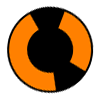
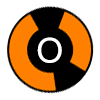
PS4 Promotions!
PS4 Strats, Jag, and Riffmasters have been promoted to "Great" rating thanks to Clipper by Rosalie. Also, all instrument buttons have letters printed on them to help out the color blind.

Changed region(s): [[0.36, 0.36, 0.63, 0.63]]

diff --git a/pages/espanol/instrumentos/guitarras/ps4-rb.md b/pages/espanol/instrumentos/guitarras/ps4-rb.md
@@ -14,9 +14,7 @@ toc: false
 
 ## NOTAS:
 
-* El mapeo no esta confirmado. Si quieres ayudar con este, mándanos un mensaje.
-* **El ladeo (tilt), la palanca de whammy y el switch de efectos no funcionan** para nada. Los botones de solo no funcionan tampoco.
-	* Si eres dueño de una Riffmaster, recomendamos comprar algo como [[Adaptador de guitarra V3 Wii/USB por RetroCultMods]](https://www.etsy.com/listing/1536358024/adaptador-de-guitarra-v3-wii-con) o una [[Adafruit Feather RP2040 con puerto de USB tipo a de entrada]](https://rb3pc.milohax.org/ctrls_mod_riffada_es) para tener ladeo (tilt), la palanca de whammy y el switch de efectos y para convertirla a una guitarra de multi-plataforma.
+* Requiere que descargues y instales [[**clipper**]](https://github.com/Rosalie241/clipper/){:target="_blank"} con ViGEmBus.
 * La latencia de las Jaguars y las Stratocasters es muy variable. Puede ser difícil calibrar por esto.
 * La PDP Riffmaster requiere su receptor propio.  
 	![Receptor de PDP Riffmaster](https://rb3pc.milohax.org/images/btns/ctrls/xbox/riffrec.png "Receptor de PDP Riffmaster")
@@ -24,9 +22,9 @@ toc: false
 
 ## Información de Control:
 
-| Handlers | Devices |	
+| Handlers | Devices |
 |:------------------:|:---------------------:|
-| MMJoystick | Joystick |
+| XInput | XInput Pad |
 
 | Device Class | Device Subtype |
 |:------------------:|:---------------------:|
@@ -34,24 +32,112 @@ toc: false
 
 ## Mapeo:
 
-| **RPCS3**          | **Control** |
-|:------------------:|:---------------------:|
-| Cross (Cruz) | ![Traste Verde](https://rb3pc.milohax.org/images/btns/gtrs/gf.png "Traste Verde") |
-| Circle (Circulo) | ![Traste Rojo](https://rb3pc.milohax.org/images/btns/gtrs/rf.png "Traste Rojo") |
-| Square (Cuadro) | ![Traste Azul](https://rb3pc.milohax.org/images/btns/gtrs/bf.png "Traste Azul") |
-| Triangle (Triangulo) | ![Traste Amarillo](https://rb3pc.milohax.org/images/btns/gtrs/yf.png "Traste Amarillo") |
-| L1 | ![Traste Naranja](https://rb3pc.milohax.org/images/btns/gtrs/of.png "Traste Naranja") |
-| D-Pad (Cruceta): Arriba | ![Rasgueo para arriba](https://rb3pc.milohax.org/images/btns/gtrs/sbu.png "Rasgueo para arriba") |
-| D-Pad (Cruceta): Abajo | ![Rasgueo para abajo](https://rb3pc.milohax.org/images/btns/gtrs/sbd.png "Rasgueo para abajo") |
-| D-Pad (Cruceta): Izquierda | ![D-Pad (Cruceta): Izquierda](https://rb3pc.milohax.org/images/btns/gtrs/dpl.png "D-Pad (Cruceta): Izquierda") |
-| D-Pad (Cruceta): Derecha | ![D-Pad (Cruceta): Derecha](https://rb3pc.milohax.org/images/btns/gtrs/dpr.png "D-Pad (Cruceta): Derecha") |
-| L2 | ![Botón de solos](https://rb3pc.milohax.org/images/btns/gtrs/solo.png "Botón de solos") |
-| Start | ![Options](https://rb3pc.milohax.org/images/btns/ctrls/ps4/opt.png "Options") |
-| Select | ![Share](https://rb3pc.milohax.org/images/btns/ctrls/ps4/shr.png "Share") |
-| Botón PS | ![Home](https://rb3pc.milohax.org/images/btns/ctrls/ps3/home.png "Home") |
+Guitarras viejas pueden tener problemas con las palancas de whammy que puede crear dificultades cuando las mapeas. **Si pasa, haz click en "Filter Noise" (filtrar ruido) para mapear correctamente.**  
+
+Por defecto, XInput tiene mayoría de las cosas configuradas correctamente. Solo necesitas ajustar esto:
+
+| **RPCS3** | **XInput** | **Guitarra** |
+|:--------:|:-----------:|:-----------:|
+| Botón R1 | ![Palanca izquierda](https://rb3pc.milohax.org/images/btns/ctrls/360/rs.png "Palanca izquierda") | ![Ladeo](https://rb3pc.milohax.org/images/btns/gtrs/ts.png "Ladeo") | 
+| L2 | ![Palanca derecha presionada](https://rb3pc.milohax.org/images/btns/ctrls/360/rsc.png "Palanca derecha presionada") | ![Botón de solos](https://rb3pc.milohax.org/images/btns/gtrs/solo.png "Botón de solos") | 
+
+<div class="panel-group" id="accordion">
+                    <div class="panel panel-default">
+                        <div class="panel-heading">
+                            <h4 class="panel-title">
+                                <a class="noCrossRef accordion-toggle" data-toggle="collapse" data-parent="#accordion" href="#mapeo-avanzado">Mapeo avanzado</a>
+                            </h4>
+                        </div>
+                        <div id="mapeo-avanzado" class="panel-collapse collapse noCrossRef">
+                            <div class="panel-body">
+
+<table>
+<thead>
+<tr>
+<th align="center"><strong>RPCS3</strong></th>
+<th align="center"><strong>Guitarra</strong></th>
+</tr>
+</thead>
+<tbody>
+<tr>
+<td align="center">Cross (Cruz)</td>
+<td align="center"><img src="https://rb3pc.milohax.org/images/btns/gtrs/gf.png" alt="Traste Verde" title="Traste Verde"></td>
+</tr>
+<tr>
+<td align="center">Circle (Circulo)</td>
+<td align="center"><img src="https://rb3pc.milohax.org/images/btns/gtrs/rf.png" alt="Traste Rojo" title="Traste Rojo"></td>
+</tr>
+<tr>
+<td align="center">Square (Cuadro)</td>
+<td align="center"><img src="https://rb3pc.milohax.org/images/btns/gtrs/yf.png" alt="Traste Amarillo" title="Traste Amarillo"></td>
+</tr>
+<tr>
+<td align="center">Triangle (Triangulo)</td>
+<td align="center"><img src="https://rb3pc.milohax.org/images/btns/gtrs/bf.png" alt="Traste Azul" title="Traste Azul"></td>
+</tr>
+<tr>
+<td align="center">L1</td>
+<td align="center"><img src="https://rb3pc.milohax.org/images/btns/gtrs/of.png" alt="Traste Naranja" title="Traste Naranja"></td>
+</tr>
+<tr>
+<td align="center">D-Pad (Cruceta): Arriba</td>
+<td align="center"><img src="https://rb3pc.milohax.org/images/btns/gtrs/sbu.png" alt="Rasgueo para arriba" title="Rasgueo para arriba"></td>
+</tr>
+<tr>
+<td align="center">D-Pad (Cruceta): Abajo</td>
+<td align="center"><img src="https://rb3pc.milohax.org/images/btns/gtrs/sbd.png" alt="Rasgueo para abajo" title="Rasgueo para abajo"></td>
+</tr>
+<tr>
+<td align="center">D-Pad (Cruceta): Izquierda</td>
+<td align="center"><img src="https://rb3pc.milohax.org/images/btns/gtrs/dpl.png" alt="D-Pad (Cruceta): Izquierda" title="D-Pad (Cruceta): Izquierda"></td>
+</tr>
+<tr>
+<td align="center">D-Pad (Cruceta): Derecha</td>
+<td align="center"><img src="https://rb3pc.milohax.org/images/btns/gtrs/dpr.png" alt="D-Pad (Cruceta): Derecha" title="D-Pad (Cruceta): Derecha"></td>
+</tr>
+<tr>
+<td align="center">Palanca Derecha: <br> Izq./Der.</td>
+<td align="center"><img src="https://rb3pc.milohax.org/images/btns/gtrs/wb.png" alt="Palanca de whammy" title="Palanca de whammy"></td>
+</tr>
+<tr>
+<td align="center">Palanca Derecha: <br> Arriba <em>e</em> abajo</td>
+<td align="center"><img src="https://rb3pc.milohax.org/images/btns/gtrs/fx.png" alt="Switch de efectos" title="Switch de efectos"></td>
+</tr>
+<tr>
+<td align="center">L2</td>
+<td align="center"><img src="https://rb3pc.milohax.org/images/btns/gtrs/solo.png" alt="Botón de solos" title="Botón de solos"></td>
+</tr>
+<tr>
+<td align="center">Botón R1</td>
+<td align="center"><img src="https://rb3pc.milohax.org/images/btns/gtrs/ts.png" alt="Ladeo" title="Ladeo"></td>
+</tr>
+<tr>
+<td align="center">Start</td>
+<td align="center"><img src="https://rb3pc.milohax.org/images/btns/ctrls/360/start.png" alt="Start" title="Start"></td>
+</tr>
+<tr>
+<td align="center">Select</td>
+<td align="center"><img src="https://rb3pc.milohax.org/images/btns/ctrls/360/back.png" alt="Back" title="Back"></td>
+</tr>
+<tr>
+<td align="center">Botón PS</td>
+<td align="center"><img src="https://rb3pc.milohax.org/images/btns/ctrls/360/home.png" alt="Home" title="Home"></td>
+</tr>
+</tbody>
+</table>
+                            </div>
+                        </div>
+                    </div>
+                    <!-- /.panel -->
+</div>
+<!-- /.panel-group -->
 
 ## Perfil
 
-N/A
+[[Bajar Perfil]](https://github.com/hmxmilohax/rb3-pc/raw/refs/heads/main/downloads/instrument-repo/Xbox%20Rock%20Band%20Guitar.7z){:target="_blank"}
+
+<div align="center"> <img src="https://rb3pc.milohax.org/images/instruments/maps/gtrxboxrbmapping.png" alt="Mapeo" title="Mapeo"></div>
 
 [[Regresar a la lista de instrumentos]](https://rb3pc.milohax.org/ctrls_es#lista-de-instrumentos)
+
+Mapeado por [[gonakil1ya]](https://linktr.ee/Gonakil1ya){:target="_blank"} y [[LysiX]](https://www.youtube.com/channel/UC1RaK6pSok879gogdeBlszw){:target="_blank"}

diff --git a/pages/english/instruments/guitars/ps4-rb.md b/pages/english/instruments/guitars/ps4-rb.md
@@ -4,7 +4,7 @@ sidebar: controllers_sidebar
 permalink: ctrls_rb4gtr_ps4
 folder: instruments
 tags: [ps4, guitars, english]
-summary: "How to setup PS4 Rock Band guitars on RPCS3."
+summary: "How to setup PS4 Rock Band 4/Fortnite Festival guitars on RPCS3."
 toc: false
 ---
 
@@ -14,9 +14,7 @@ toc: false
 
 ## NOTES
 
-* The bindings have not been verified. If you want to help, please send us a message!
-* **Tilt, Whammy, and pickup switch WILL NOT work at all!** Solo buttons may or may not work.
-	* If you own a Riffmaster, it's suggested to purchase a solution like [[RetroCultMods' V3 Wii/USB Guitar Adapter]](https://www.etsy.com/listing/1536358024/v3-wii-guitar-adapter-with-tilt-for) or the [[Adafruit Feather RP2040 with USB Type A Host]](https://rb3pc.milohax.org/ctrls_mod_riffada) to have whammy, tilt, and convert it to a multiplatform guitar.
+* Requires installing and running [[**clipper**]](https://github.com/Rosalie241/clipper/){:target="_blank"} along with its dependencies.
 * Latency on Jaguars and Stratocasters may be an issue depending on your Bluetooth receiver. This may make it difficult to calibrate.
 * PDP Riffmaster guitars require their respective dongle.  
 	![PDP Riffmaster Wireless Receiver](https://rb3pc.milohax.org/images/btns/ctrls/xbox/riffrec.png "PDP Riffmaster Wireless Receiver")
@@ -24,34 +22,122 @@ toc: false
 
 ## Pad Information
 
-| Handlers | Devices |	
+| Handlers | Devices |
 |:------------------:|:---------------------:|
-| MMJoystick | Joystick |
+| XInput | XInput Pad |
 
 | Device Class | Device Subtype |
 |:------------------:|:---------------------:|
 | Guitar | Rock Band |
 
-## Mappings
+## Mapping
 
-| **RPCS3**          | **Controller** |
-|:------------------:|:---------------------:|
-| Cross | ![Green Fret](https://rb3pc.milohax.org/images/btns/gtrs/gf.png "Green Fret") |
-| Circle | ![Red Fret](https://rb3pc.milohax.org/images/btns/gtrs/rf.png "Red Fret") |
-| Square | ![Blue Fret](https://rb3pc.milohax.org/images/btns/gtrs/bf.png "Blue Fret") |
-| Triangle | ![Yellow Fret](https://rb3pc.milohax.org/images/btns/gtrs/yf.png "Yellow Fret") |
-| L1 | ![Orange Fret](https://rb3pc.milohax.org/images/btns/gtrs/of.png "Orange Fret") |
-| D-Pad: Up | ![Strumbar Up](https://rb3pc.milohax.org/images/btns/gtrs/sbu.png "Strumbar Up") |
-| D-Pad: Down | ![Strumbar Down](https://rb3pc.milohax.org/images/btns/gtrs/sbd.png "Strumbar Down") |
-| D-Pad: Left | ![D-Pad: Left](https://rb3pc.milohax.org/images/btns/gtrs/dpl.png "D-Pad: Left") |
-| D-Pad: Right | ![D-Pad: Right](https://rb3pc.milohax.org/images/btns/gtrs/dpr.png "D-Pad: Right") |
-| L2 | ![Solo Buttons](https://rb3pc.milohax.org/images/btns/gtrs/solo.png "Solo Buttons") |
-| Start | ![Options](https://rb3pc.milohax.org/images/btns/ctrls/ps4/opt.png "Options") |
-| Select | ![Share](https://rb3pc.milohax.org/images/btns/ctrls/ps4/shr.png "Share") |
-| PS Button | ![Home](https://rb3pc.milohax.org/images/btns/ctrls/ps3/home.png "Home") |
+Older guitars may develop problematic whammy bars which cause issues while mapping. **You may have to Filter Noise to map correctly.**  
+
+By default, XInput has most things bound correctly. You only need to remap the following:
+
+| **RPCS3** | **XInput** | **Guitar** |
+|:--------:|:-----------:|:-----------:|
+| R1 | ![Right Stick](https://rb3pc.milohax.org/images/btns/ctrls/360/rs.png "Right Stick") | ![Tilt](https://rb3pc.milohax.org/images/btns/gtrs/ts.png "Tilt") | 
+| L2 | ![Right Stick Click](https://rb3pc.milohax.org/images/btns/ctrls/360/rsc.png "Right Stick Click") | ![Solo Buttons](https://rb3pc.milohax.org/images/btns/gtrs/solo.png "Solo Buttons") | 
+
+<div class="panel-group" id="accordion">
+                    <div class="panel panel-default">
+                        <div class="panel-heading">
+                            <h4 class="panel-title">
+                                <a class="noCrossRef accordion-toggle" data-toggle="collapse" data-parent="#accordion" href="#advanced-mapping">Advanced Mapping</a>
+                            </h4>
+                        </div>
+                        <div id="advanced-mapping" class="panel-collapse collapse noCrossRef">
+                            <div class="panel-body">
+
+<table>
+<thead>
+<tr>
+<th align="center"><strong>RPCS3</strong></th>
+<th align="center"><strong>Guitar</strong></th>
+</tr>
+</thead>
+<tbody>
+<tr>
+<td align="center">Cross</td>
+<td align="center"><img src="https://rb3pc.milohax.org/images/btns/gtrs/gf.png" alt="Green Fret" title="Green Fret"></td>
+</tr>
+<tr>
+<td align="center">Circle</td>
+<td align="center"><img src="https://rb3pc.milohax.org/images/btns/gtrs/rf.png" alt="Red Fret" title="Red Fret"></td>
+</tr>
+<tr>
+<td align="center">Square</td>
+<td align="center"><img src="https://rb3pc.milohax.org/images/btns/gtrs/yf.png" alt="Yellow Fret" title="Yellow Fret"></td>
+</tr>
+<tr>
+<td align="center">Triangle</td>
+<td align="center"><img src="https://rb3pc.milohax.org/images/btns/gtrs/bf.png" alt="Blue Fret" title="Blue Fret"></td>
+</tr>
+<tr>
+<td align="center">L1</td>
+<td align="center"><img src="https://rb3pc.milohax.org/images/btns/gtrs/of.png" alt="Orange Fret" title="Orange Fret"></td>
+</tr>
+<tr>
+<td align="center">D-Pad: Up</td>
+<td align="center"><img src="https://rb3pc.milohax.org/images/btns/gtrs/sbu.png" alt="Strumbar Up" title="Strumbar Up"></td>
+</tr>
+<tr>
+<td align="center">D-Pad: Down</td>
+<td align="center"><img src="https://rb3pc.milohax.org/images/btns/gtrs/sbd.png" alt="Strumbar Down" title="Strumbar Down"></td>
+</tr>
+<tr>
+<td align="center">D-Pad: Left</td>
+<td align="center"><img src="https://rb3pc.milohax.org/images/btns/gtrs/dpl.png" alt="D-Pad: Left" title="D-Pad: Left"></td>
+</tr>
+<tr>
+<td align="center">D-Pad: Right</td>
+<td align="center"><img src="https://rb3pc.milohax.org/images/btns/gtrs/dpr.png" alt="D-Pad: Right" title="D-Pad: Right"></td>
+</tr>
+<tr>
+<td align="center">Right Stick: <br> Left/Right</td>
+<td align="center"><img src="https://rb3pc.milohax.org/images/btns/gtrs/wb.png" alt="Whammy Bar" title="Whammy Bar"></td>
+</tr>
+<tr>
+<td align="center">Right Stick: <br> Up <em>and</em> Down</td>
+<td align="center"><img src="https://rb3pc.milohax.org/images/btns/gtrs/fx.png" alt="Effects Switch" title="Effects Switch"></td>
+</tr>
+<tr>
+<td align="center">L2</td>
+<td align="center"><img src="https://rb3pc.milohax.org/images/btns/gtrs/solo.png" alt="Solo Buttons" title="Solo Buttons"></td>
+</tr>
+<tr>
+<td align="center">R1</td>
+<td align="center"><img src="https://rb3pc.milohax.org/images/btns/gtrs/ts.png" alt="Tilt" title="Tilt"></td>
+</tr>
+<tr>
+<td align="center">Start</td>
+<td align="center"><img src="https://rb3pc.milohax.org/images/btns/ctrls/360/start.png" alt="Plus" title="Start"></td>
+</tr>
+<tr>
+<td align="center">Select</td>
+<td align="center"><img src="https://rb3pc.milohax.org/images/btns/ctrls/360/back.png" alt="Minus" title="Back"></td>
+</tr>
+<tr>
+<td align="center">PS Button</td>
+<td align="center"><img src="https://rb3pc.milohax.org/images/btns/ctrls/360/home.png" alt="Home" title="Home"></td>
+</tr>
+</tbody>
+</table>
+                            </div>
+                        </div>
+                    </div>
+                    <!-- /.panel -->
+</div>
+<!-- /.panel-group -->
 
 ## Profile
 
-N/A
+[[Download Profile]](https://github.com/hmxmilohax/rb3-pc/raw/refs/heads/main/downloads/instrument-repo/PS4%20Rock%20Band%20Guitar.7z){:target="_blank"}
+
+<div align="center"> <img src="https://rb3pc.milohax.org/images/instruments/maps/gtrxboxrbmapping.png" alt="Mapping" title="Mapping"></div>
 
 [[Back to Controllers]](https://rb3pc.milohax.org/ctrls#instrument-list)
+
+Mapped by [[gonakil1ya]](https://linktr.ee/Gonakil1ya){:target="_blank"} and [[LysiX]](https://www.youtube.com/channel/UC1RaK6pSok879gogdeBlszw){:target="_blank"}

diff --git a/pages/espanol/instrumentos/principal.md b/pages/espanol/instrumentos/principal.md
@@ -91,6 +91,9 @@ Cuando termines de configurar algo, **asegúrate hacer click en "Save"** (Guarda
 |[![Guitarra de GH:World Tour](https://rb3pc.milohax.org/images/instruments/list/gtrwt.png)](https://rb3pc.milohax.org/ctrls_ghgtr_360_es "Genericaster de Guitar Hero") | Guitarra de GH:World Tour | ![Xbox 360](https://rb3pc.milohax.org/images/instruments/plat/360.png) | ![Símbolo de compatibilidad adecuada](https://rb3pc.milohax.org/images/instruments/compat/okay.png) |[[VER MAS]](https://rb3pc.milohax.org/ctrls_ghgtr_360_es) |
 |[![Guitarra de GH5](https://rb3pc.milohax.org/images/instruments/list/gtrgh5.png)](https://rb3pc.milohax.org/ctrls_ghgtr_360_es "Genericaster de Guitar Hero") | Guitarra de GH5 | ![Xbox 360](https://rb3pc.milohax.org/images/instruments/plat/360.png) | ![Símbolo de compatibilidad adecuada](https://rb3pc.milohax.org/images/instruments/compat/okay.png) |[[VER MAS]](https://rb3pc.milohax.org/ctrls_ghgtr_360_es) |
 |[![Guitarra de GH: Warriors of Rock](https://rb3pc.milohax.org/images/instruments/list/gtrwor.png)](https://rb3pc.milohax.org/ctrls_ghgtr_360_es "Genericaster de Guitar Hero") | Guitarra de GH: Warriors of Rock | ![Xbox 360](https://rb3pc.milohax.org/images/instruments/plat/360.png) | ![Símbolo de compatibilidad adecuada](https://rb3pc.milohax.org/images/instruments/compat/okay.png) |[[VER MAS]](https://rb3pc.milohax.org/ctrls_ghgtr_360_es) |
+|[![PDP Riffmaster](https://rb3pc.milohax.org/images/instruments/list/gtrriff.png)](https://rb3pc.milohax.org/ctrls_rb4gtr_ps4_es "PDP Riffmaster") | PDP Riffmaster | ![PlayStation 4](https://rb3pc.milohax.org/images/instruments/plat/ps4.png) | ![Símbolo de compatibilidad adecuada](https://rb3pc.milohax.org/images/instruments/compat/okay.png) | [[VER MAS]](https://rb3pc.milohax.org/ctrls_rb4gtr_ps4_es) |
+|[![Stratocaster de Rock Band 4](https://rb3pc.milohax.org/images/instruments/list/gtrrb4.png)](https://rb3pc.milohax.org/ctrls_rb4gtr_ps4_es "Stratocaster de Rock Band") | Stratocaster de Rock Band 4 | ![PlayStation 4](https://rb3pc.milohax.org/images/instruments/plat/ps4.png) | ![Símbolo de compatibilidad adecuada](https://rb3pc.milohax.org/images/instruments/compat/okay.png) | [[VER MAS]](https://rb3pc.milohax.org/ctrls_rb4gtr_ps4_es) |
+|[![Jaguar de Rock Band 4](https://rb3pc.milohax.org/images/instruments/list/gtrjag.png)](https://rb3pc.milohax.org/ctrls_rb4gtr_ps4_es "Jaguar de Rock Band") | Jaguar de Rock Band 4 | ![PlayStation 4](https://rb3pc.milohax.org/images/instruments/plat/ps4.png) | ![Símbolo de compatibilidad adecuada](https://rb3pc.milohax.org/images/instruments/compat/okay.png) | [[VER MAS]](https://rb3pc.milohax.org/ctrls_rb4gtr_ps4_es) |
 |[![Xplorer de Guitar Hero](https://rb3pc.milohax.org/images/instruments/list/gtrxpl.png)](https://rb3pc.milohax.org/ctrls_ghxpgtr_360 "Xplorer de Guitar Hero") | Xplorer de Guitar Hero | ![Xbox 360](https://rb3pc.milohax.org/images/instruments/plat/360.png) | ![Símbolo de compatibilidad adecuada](https://rb3pc.milohax.org/images/instruments/compat/okay.png) |[[VER MAS]](https://rb3pc.milohax.org/ctrls_ghxpgtr_360) |
 |[![Les Paul de Guitar Hero](https://rb3pc.milohax.org/images/instruments/list/gtrlpwii.png)](https://rb3pc.milohax.org/ctrls_ghlpgtr_wii "Les Paul de Guitar Hero") | Les Paul de Guitar Hero (Raphnet) | ![Nintendo Wii](https://rb3pc.milohax.org/images/instruments/plat/wii.png) | ![Símbolo de compatibilidad adecuada](https://rb3pc.milohax.org/images/instruments/compat/okay.png) |[[VER MAS]](https://rb3pc.milohax.org/ctrls_ghlpgtr_wii) |
 |[![Les Paul de Guitar Hero](https://rb3pc.milohax.org/images/instruments/list/gtrlpwii.png)](https://rb3pc.milohax.org/ctrls_ghwtr_wii_es "Les Paul de Guitar Hero") | Les Paul de Guitar Hero (WiitarThing) | ![Nintendo Wii](https://rb3pc.milohax.org/images/instruments/plat/wii.png) | ![Símbolo de compatibilidad adecuada](https://rb3pc.milohax.org/images/instruments/compat/okay.png) |[[VER MAS]](https://rb3pc.milohax.org/ctrls_ghwtr_wii_es) |
@@ -102,9 +105,6 @@ Cuando termines de configurar algo, **asegúrate hacer click en "Save"** (Guarda
 |[![Guitarra de GH:World Tour](https://rb3pc.milohax.org/images/instruments/list/gtrwt.png)](https://rb3pc.milohax.org/ctrls_ghwtgtr_ps3_es "Genericaster de Guitar Hero") | Guitarra de GH:World Tour | ![PlayStation 3](https://rb3pc.milohax.org/images/instruments/plat/ps3.png) | ![Compatibilidad terrible](https://rb3pc.milohax.org/images/instruments/compat/bad.png) |[[VER MAS]](https://rb3pc.milohax.org/ctrls_ghwtgtr_ps3_es) |
 |[![Guitarra de GH5](https://rb3pc.milohax.org/images/instruments/list/gtrgh5.png)](https://rb3pc.milohax.org/ctrls_ghwtgtr_ps3_es "Genericaster de Guitar Hero") | Guitarra de GH5 | ![PlayStation 3](https://rb3pc.milohax.org/images/instruments/plat/ps3.png) | ![Compatibilidad terrible](https://rb3pc.milohax.org/images/instruments/compat/bad.png) |[[VER MAS]](https://rb3pc.milohax.org/ctrls_ghwtgtr_ps3_es) |
 |[![Guitarra de GH: Warriors of Rock](https://rb3pc.milohax.org/images/instruments/list/gtrwor.png)](https://rb3pc.milohax.org/ctrls_ghwtgtr_ps3_es "Genericaster de Guitar Hero") | Guitarra de GH: Warriors of Rock | ![PlayStation 3](https://rb3pc.milohax.org/images/instruments/plat/ps3.png) | ![Compatibilidad terrible](https://rb3pc.milohax.org/images/instruments/compat/bad.png) |[[VER MAS]](https://rb3pc.milohax.org/ctrls_ghwtgtr_ps3_es) |
-|[![PDP Riffmaster](https://rb3pc.milohax.org/images/instruments/list/gtrriff.png)](https://rb3pc.milohax.org/ctrls_rb4gtr_ps4_es "PDP Riffmaster") | PDP Riffmaster | ![PlayStation 4](https://rb3pc.milohax.org/images/instruments/plat/ps4.png) | ![Compatibilidad terrible](https://rb3pc.milohax.org/images/instruments/compat/bad.png) |[[VER MAS]](https://rb3pc.milohax.org/ctrls_rb4gtr_ps4_es) |
-|[![Stratocaster de Rock Band 4](https://rb3pc.milohax.org/images/instruments/list/gtrrb4.png)](https://rb3pc.milohax.org/ctrls_rb4gtr_ps4_es "Stratocaster de Rock Band") | Stratocaster de Rock Band 4 | ![PlayStation 4](https://rb3pc.milohax.org/images/instruments/plat/ps4.png) | ![Compatibilidad terrible](https://rb3pc.milohax.org/images/instruments/compat/bad.png) |[[VER MAS]](https://rb3pc.milohax.org/ctrls_rb4gtr_ps4_es) |
-|[![Jaguar de Rock Band 4](https://rb3pc.milohax.org/images/instruments/list/gtrjag.png)](https://rb3pc.milohax.org/ctrls_rb4gtr_ps4_es "Jaguar de Rock Band") | Jaguar de Rock Band 4 | ![PlayStation 4](https://rb3pc.milohax.org/images/instruments/plat/ps4.png) | ![Compatibilidad terrible](https://rb3pc.milohax.org/images/instruments/compat/bad.png) |[[VER MAS]](https://rb3pc.milohax.org/ctrls_rb4gtr_ps4_es) |
 |[![Guitarra de GH:World Tour](https://rb3pc.milohax.org/images/instruments/list/gtrwt.png)](https://rb3pc.milohax.org/ctrls_ghwtgtr_pc_es "Genericaster de Guitar Hero") | Guitarra de GH:World Tour | ![PC](https://rb3pc.milohax.org/images/instruments/plat/pc.png) | ![Compatibilidad terrible](https://rb3pc.milohax.org/images/instruments/compat/bad.png) |[[VER MAS]](https://rb3pc.milohax.org/ctrls_ghwtgtr_pc_es) |
 |[![Guitarra desconocida](https://rb3pc.milohax.org/images/instruments/list/gtrmyst.png)](https://rb3pc.milohax.org/ctrls_gtr_gen_es "Guitarra desconocida") | Guitarra desconocida | ![Sistema desconocido](https://rb3pc.milohax.org/images/instruments/plat/myst.png) | N/A |[[VER MAS]](https://rb3pc.milohax.org/ctrls_gtr_gen_es) |
 

diff --git a/pages/english/instruments/main.md b/pages/english/instruments/main.md
@@ -89,6 +89,9 @@ Once you've finished configuring, **remember to click "Save".**
 |[![Guitar Hero World Tour](https://rb3pc.milohax.org/images/instruments/list/gtrwt.png)](https://rb3pc.milohax.org/ctrls_ghgtr_360 "Guitar Hero Genericaster") | Guitar Hero World Tour | ![Xbox 360](https://rb3pc.milohax.org/images/instruments/plat/360.png) | ![Okay Compatibility Symbol](https://rb3pc.milohax.org/images/instruments/compat/okay.png) |[[CLICK HERE]](https://rb3pc.milohax.org/ctrls_ghgtr_360) |
 |[![Guitar Hero 5](https://rb3pc.milohax.org/images/instruments/list/gtrgh5.png)](https://rb3pc.milohax.org/ctrls_ghgtr_360 "Guitar Hero Genericaster") | Guitar Hero 5 | ![Xbox 360](https://rb3pc.milohax.org/images/instruments/plat/360.png) | ![Okay Compatibility Symbol](https://rb3pc.milohax.org/images/instruments/compat/okay.png) |[[CLICK HERE]](https://rb3pc.milohax.org/ctrls_ghgtr_360) |
 |[![Guitar Hero Warriors of Rock](https://rb3pc.milohax.org/images/instruments/list/gtrwor.png)](https://rb3pc.milohax.org/ctrls_ghgtr_360 "Guitar Hero Genericaster") | Guitar Hero Warriors of Rock | ![Xbox 360](https://rb3pc.milohax.org/images/instruments/plat/360.png) | ![Okay Compatibility Symbol](https://rb3pc.milohax.org/images/instruments/compat/okay.png) |[[CLICK HERE]](https://rb3pc.milohax.org/ctrls_ghgtr_360) |
+|[![PDP Riffmaster](https://rb3pc.milohax.org/images/instruments/list/gtrriff.png)](https://rb3pc.milohax.org/ctrls_rb4gtr_ps4 "PDP Riffmaster") | PDP Riffmaster | ![PlayStation 4](https://rb3pc.milohax.org/images/instruments/plat/ps4.png) | ![Great Compatibility Symbol](https://rb3pc.milohax.org/images/instruments/compat/great.png) |[[CLICK HERE]](https://rb3pc.milohax.org/ctrls_rb4gtr_ps4) |
+|[![Rock Band 4 Stratocaster](https://rb3pc.milohax.org/images/instruments/list/gtrrb4.png)](https://rb3pc.milohax.org/ctrls_rb4gtr_ps4 "Rock Band Stratocaster") | Rock Band 4 Stratocaster | ![PlayStation 4](https://rb3pc.milohax.org/images/instruments/plat/ps4.png) | ![Great Compatibility Symbol](https://rb3pc.milohax.org/images/instruments/compat/great.png) |[[CLICK HERE]](https://rb3pc.milohax.org/ctrls_rb4gtr_ps4) |
+|[![Rock Band 4 Jaguar](https://rb3pc.milohax.org/images/instruments/list/gtrjag.png)](https://rb3pc.milohax.org/ctrls_rb4gtr_ps4 "Rock Band Jaguar") | Rock Band 4 Jaguar | ![PlayStation 4](https://rb3pc.milohax.org/images/instruments/plat/ps4.png) | ![Great Compatibility Symbol](https://rb3pc.milohax.org/images/instruments/compat/great.png) |[[CLICK HERE]](https://rb3pc.milohax.org/ctrls_rb4gtr_ps4) |
 |[![Guitar Hero Xplorer](https://rb3pc.milohax.org/images/instruments/list/gtrxpl.png)](https://rb3pc.milohax.org/ctrls_ghxpgtr_360 "Guitar Hero Xplorer") | Guitar Hero Xplorer | ![Xbox 360](https://rb3pc.milohax.org/images/instruments/plat/360.png) | ![Okay Compatibility Symbol](https://rb3pc.milohax.org/images/instruments/compat/okay.png) |[[CLICK HERE]](https://rb3pc.milohax.org/ctrls_ghxpgtr_360) |
 |[![Guitar Hero Les Paul](https://rb3pc.milohax.org/images/instruments/list/gtrlpwii.png)](https://rb3pc.milohax.org/ctrls_ghlpgtr_wii "Guitar Hero Les Paul") | Guitar Hero Les Paul (Raphnet) | ![Nintendo Wii](https://rb3pc.milohax.org/images/instruments/plat/wii.png) | ![Okay Compatibility Symbol](https://rb3pc.milohax.org/images/instruments/compat/okay.png) |[[CLICK HERE]](https://rb3pc.milohax.org/ctrls_ghlpgtr_wii) |
 |[![Guitar Hero Les Paul](https://rb3pc.milohax.org/images/instruments/list/gtrlpwii.png)](https://rb3pc.milohax.org/ctrls_ghwtr_wii "Guitar Hero Les Paul") | Guitar Hero Les Paul (WiitarThing) | ![Nintendo Wii](https://rb3pc.milohax.org/images/instruments/plat/wii.png) | ![Okay Compatibility Symbol](https://rb3pc.milohax.org/images/instruments/compat/okay.png) |[[CLICK HERE]](https://rb3pc.milohax.org/ctrls_ghwtr_wii) |
@@ -100,9 +103,6 @@ Once you've finished configuring, **remember to click "Save".**
 |[![Guitar Hero World Tour](https://rb3pc.milohax.org/images/instruments/list/gtrwt.png)](https://rb3pc.milohax.org/ctrls_ghwtgtr_ps3 "Guitar Hero Genericaster") | Guitar Hero World Tour | ![PlayStation 3](https://rb3pc.milohax.org/images/instruments/plat/ps3.png) | ![Bad Compatibility Symbol](https://rb3pc.milohax.org/images/instruments/compat/bad.png) |[[CLICK HERE]](https://rb3pc.milohax.org/ctrls_ghwtgtr_ps3) |
 |[![Guitar Hero 5](https://rb3pc.milohax.org/images/instruments/list/gtrgh5.png)](https://rb3pc.milohax.org/ctrls_ghwtgtr_ps3 "Guitar Hero Genericaster") | Guitar Hero 5 | ![PlayStation 3](https://rb3pc.milohax.org/images/instruments/plat/ps3.png) | ![Bad Compatibility Symbol](https://rb3pc.milohax.org/images/instruments/compat/bad.png) |[[CLICK HERE]](https://rb3pc.milohax.org/ctrls_ghwtgtr_ps3) |
 |[![Guitar Hero Warriors of Rock](https://rb3pc.milohax.org/images/instruments/list/gtrwor.png)](https://rb3pc.milohax.org/ctrls_ghwtgtr_ps3 "Guitar Hero Genericaster") | Guitar Hero Warriors of Rock | ![PlayStation 3](https://rb3pc.milohax.org/images/instruments/plat/ps3.png) | ![Bad Compatibility Symbol](https://rb3pc.milohax.org/images/instruments/compat/bad.png) |[[CLICK HERE]](https://rb3pc.milohax.org/ctrls_ghwtgtr_ps3) |
-|[![PDP Riffmaster](https://rb3pc.milohax.org/images/instruments/list/gtrriff.png)](https://rb3pc.milohax.org/ctrls_rb4gtr_ps4 "PDP Riffmaster") | PDP Riffmaster | ![PlayStation 4](https://rb3pc.milohax.org/images/instruments/plat/ps4.png) | ![Bad Compatibility Symbol](https://rb3pc.milohax.org/images/instruments/compat/bad.png) |[[CLICK HERE]](https://rb3pc.milohax.org/ctrls_rb4gtr_ps4) |
-|[![Rock Band 4 Stratocaster](https://rb3pc.milohax.org/images/instruments/list/gtrrb4.png)](https://rb3pc.milohax.org/ctrls_rb4gtr_ps4 "Rock Band Stratocaster") | Rock Band 4 Stratocaster | ![PlayStation 4](https://rb3pc.milohax.org/images/instruments/plat/ps4.png) | ![Bad Compatibility Symbol](https://rb3pc.milohax.org/images/instruments/compat/bad.png) |[[CLICK HERE]](https://rb3pc.milohax.org/ctrls_rb4gtr_ps4) |
-|[![Rock Band 4 Jaguar](https://rb3pc.milohax.org/images/instruments/list/gtrjag.png)](https://rb3pc.milohax.org/ctrls_rb4gtr_ps4 "Rock Band Jaguar") | Rock Band 4 Jaguar | ![PlayStation 4](https://rb3pc.milohax.org/images/instruments/plat/ps4.png) | ![Bad Compatibility Symbol](https://rb3pc.milohax.org/images/instruments/compat/bad.png) |[[CLICK HERE]](https://rb3pc.milohax.org/ctrls_rb4gtr_ps4) |
 |[![Guitar Hero World Tour](https://rb3pc.milohax.org/images/instruments/list/gtrwt.png)](https://rb3pc.milohax.org/ctrls_ghwtgtr_pc "Guitar Hero Genericaster") | Guitar Hero World Tour | ![PC](https://rb3pc.milohax.org/images/instruments/plat/pc.png) | ![Bad Compatibility Symbol](https://rb3pc.milohax.org/images/instruments/compat/bad.png) |[[CLICK HERE]](https://rb3pc.milohax.org/ctrls_ghwtgtr_pc) |
 |[![Unknown Guitar](https://rb3pc.milohax.org/images/instruments/list/gtrmyst.png)](https://rb3pc.milohax.org/ctrls_gtr_gen "Unknown Guitar") | Unknown Guitar | ![Unknown Platform](https://rb3pc.milohax.org/images/instruments/plat/myst.png) | N/A |[[CLICK HERE]](https://rb3pc.milohax.org/ctrls_gtr_gen) |
 

diff --git a/pages/espanol/instrumentos/guitarras/xbox-rb4.md b/pages/espanol/instrumentos/guitarras/xbox-rb4.md
@@ -14,7 +14,7 @@ toc: false
 
 ## NOTAS:
 
-* Requiere que descargues y instales [[**RB4InstrummentMapper**]](https://github.com/TheNathannator/RB4InstrumentMapper/blob/main/README.es.md/){:target="_blank"} con ViGEmBus.
+* Requiere que descargues y instales [[**clipper**]](https://github.com/Rosalie241/clipper/){:target="_blank"} con ViGEmBus.
 * Usuarios de **Linux** pueden instalar los [[controladores de kernel de `xone`]](https://github.com/dlundqvist/xone) para usar periféricos de Xbox One. Toma nota que esta pagina y sus instrucciones están en Ingles.
 * Este perfil funciona con la Fender Stratocaster, Fender Jaguar y la PDP Riffmaster para Xbox One.
 	* La Fender Stratocaster y la Fender Jaguar requieren un Adaptador inalámbrico para Windows.  
